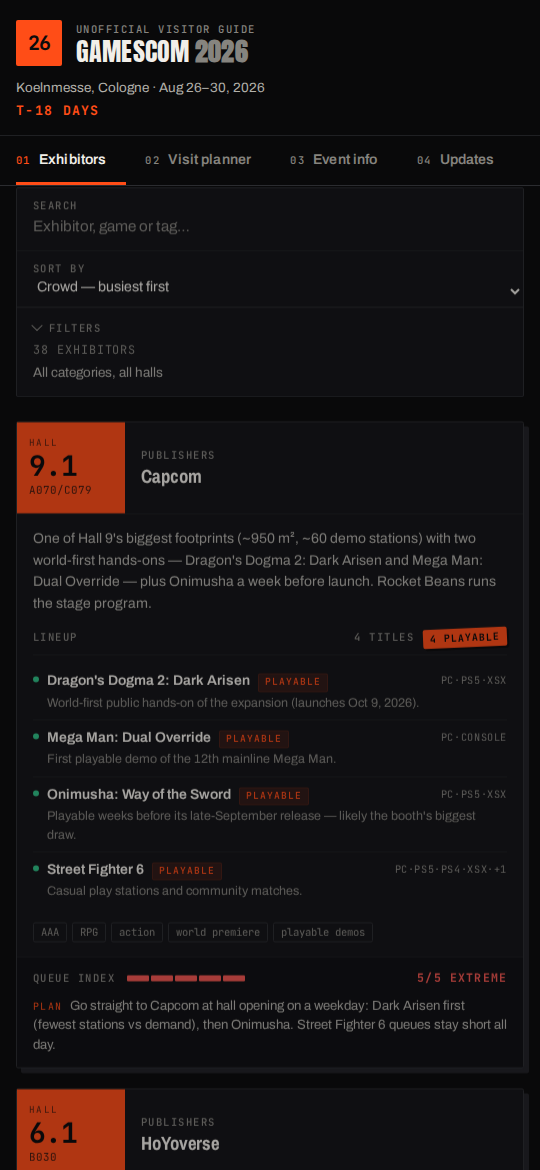
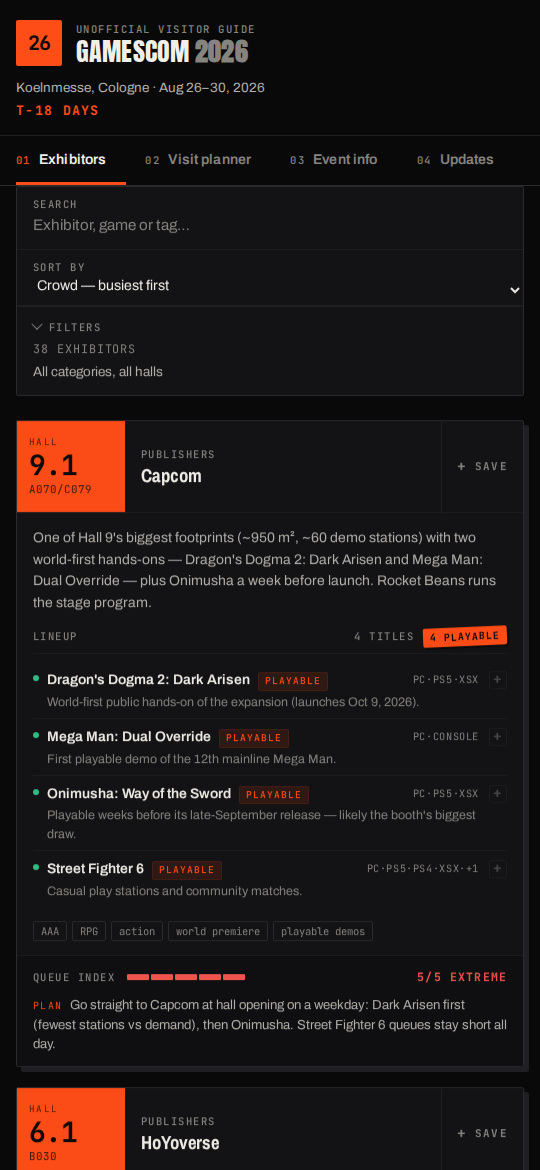
chore: refresh install screenshots for the saved list
Merging the PWA work made the manifest screenshots stale — they show the
exhibitor grid, which is the one view the saved list changes, so Chrome's
install dialog was advertising card heads without their + SAVE plate and a
filter row without "Saved". Regenerated with tools/make-screenshots.mjs and
updated both labels to match what is now in frame.

Nothing else needed adjusting. css/, js/ and the data files propagate
through the service worker on their own, so sw.js VERSION stays put, and no
new files means the precache list is unchanged. Verified the two features
compose: with the app booted from cache and the network down, the saved
list renders, both saved-only filters work, and items saved while offline
survive a reload — it is localStorage only, so it never wanted the network.

Claude-Session: https://claude.ai/code/session_01R4LopH1r3JFS2giCczBwhk

diff --git a/README.md b/README.md
@@ -83,6 +83,11 @@ nothing leaves the device. Two tabs of the guide stay in sync via the `storage` 
 and if storage is blocked altogether (Safari private mode) the list still works for
 the session instead of throwing.
 
+It is entirely local, so it needs no network: with the app running off the service
+worker cache in a dead-reception hall, the list still renders, both saved-only filters
+still work, and anything saved while offline persists. That is the case it is for —
+you build the list at home and read it on the show floor.
+
 Games are keyed by **title**, not by booth. Eight titles this year are shown at two
 booths at once — Alien: Isolation 2 sits at both Xbox and SEGA — and someone who saved
 the game wants to see every booth running it so they can walk to the shorter queue.
